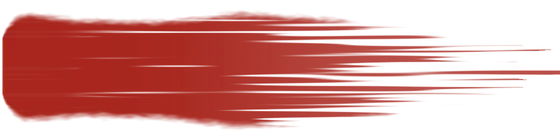
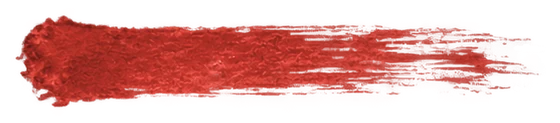
Commander UI: hand-painted brush art from one sprite sheet
The generated brush art is replaced with a painted sheet
(tools/ui/src/commander_ink_sheet.webp). tools/ui/commander_sheet.py cuts
it into assets/ui/ink/cmd_*.webp, drops stray specks, tones the reds to
vermilion and the enso to cream so it reads on black ink.

- The chakra pips cycle through the six painted drops (cmd_drops.webp).
- The 発動 seal is the painted hanko frame on a paper square, raised so
  it no longer covers the name.
- The banner ink runs off the screen edge so the text always sits on
  solid ink, with a soft shadow behind it.

The old procedural generator (tools/ui/commander_ink.py) is removed.

diff --git a/css/battle-commander.css b/css/battle-commander.css
@@ -2,7 +2,7 @@
    Sumi-e look in every UI style: a dry-brush ink swash instead of a box, the
    portrait in a brushed ensō, ink-drop chakra pips, a vermilion hanko seal and
    brush calligraphy (Yuji Boku, subset to the few kanji used here). Brush art:
-   assets/ui/ink/cmd_*.webp. */
+   assets/ui/ink/cmd_*.webp, cut from one painted sheet by tools/ui/commander_sheet.py. */
 @font-face {
   font-family: 'Yuji Boku Cmd';
   src: url('../assets/fonts/yuji-boku-commander.woff2') format('woff2');
@@ -27,12 +27,12 @@
   all: unset; box-sizing: border-box; cursor: pointer; -webkit-tap-highlight-color: transparent; touch-action: manipulation;
   position: relative; isolation: isolate; display: flex; align-items: center; gap: 2px;
   width: 238px; min-height: 112px; padding: 12px 26px 12px 18px;
-  color: var(--cmd-paper); font-family: var(--cmd-serif);
+  color: var(--cmd-paper); font-family: var(--cmd-serif); text-shadow: 0 1px 2px rgba(0, 0, 0, 0.9);
   user-select: none; -webkit-user-select: none;
 }
 /* the ink swash the banner is painted on */
 .cmd-ink {
-  position: absolute; inset: -6px -10px -8px -6px; z-index: -1; pointer-events: none;
+  position: absolute; inset: -8px -70px -10px -6px; z-index: -1; pointer-events: none; /* runs off the screen edge, so the solid ink sits under the text */
   background: url('../assets/ui/ink/cmd_swash.webp') left center / 100% 100% no-repeat;
   filter: drop-shadow(0 3px 6px rgba(0, 0, 0, 0.45));
 }
@@ -67,8 +67,15 @@
   -webkit-mask: url('../assets/ui/ink/cmd_dab.webp') center / contain no-repeat; mask: url('../assets/ui/ink/cmd_dab.webp') center / contain no-repeat;
   transition: background 0.25s, transform 0.25s;
 }
-.cmd-pips i:nth-child(3n) { transform: rotate(40deg) scale(0.92); }
-.cmd-pips i:nth-child(3n + 1) { transform: rotate(-25deg); }
+.cmd-pips i { -webkit-mask-image: url('../assets/ui/ink/cmd_drops.webp'); mask-image: url('../assets/ui/ink/cmd_drops.webp');
+  -webkit-mask-size: 600% 100%; mask-size: 600% 100%; }
+/* six painted drops in turn, so no two neighbours match */
+.cmd-pips i:nth-child(6n + 1) { -webkit-mask-position: 0% 0; mask-position: 0% 0; }
+.cmd-pips i:nth-child(6n + 2) { -webkit-mask-position: 20% 0; mask-position: 20% 0; }
+.cmd-pips i:nth-child(6n + 3) { -webkit-mask-position: 40% 0; mask-position: 40% 0; }
+.cmd-pips i:nth-child(6n + 4) { -webkit-mask-position: 60% 0; mask-position: 60% 0; }
+.cmd-pips i:nth-child(6n + 5) { -webkit-mask-position: 80% 0; mask-position: 80% 0; }
+.cmd-pips i:nth-child(6n) { -webkit-mask-position: 100% 0; mask-position: 100% 0; }
 .cmd-pips i.on { background: var(--cmd-vermilion-2); }
 .cmd-count { flex: 0 0 auto; font-family: var(--cmd-caps); font-size: 11px; font-weight: 600; color: var(--cmd-paper); }
 .cmd-count i { font-style: normal; font-size: 8.5px; color: var(--cmd-paper-dim); margin-left: 1px; }
@@ -81,11 +88,14 @@
 .cmd-go b { font-family: var(--cmd-brush); font-weight: 400; font-size: 17px; color: var(--cmd-paper); }
 .cmd-go span { font-family: var(--cmd-caps); font-size: 9px; font-weight: 600; letter-spacing: 0.34em; text-transform: uppercase; color: var(--cmd-paper); }
 .cmd-seal {
-  display: none; position: absolute; right: 18px; top: -6px; z-index: 2; width: 34px; height: 34px;
+  display: none; position: absolute; right: 2px; top: -26px; z-index: 2; width: 38px; height: 38px;
   align-items: center; justify-content: center; writing-mode: vertical-rl;
-  font-family: var(--cmd-brush); font-size: 13px; line-height: 1; color: #fbefe0;
-  background: var(--cmd-vermilion); border-radius: 3px 5px 4px 6px;
-  box-shadow: inset 0 0 0 2px rgba(251, 239, 224, 0.82), inset 0 0 0 3px var(--cmd-vermilion);
+  font-family: var(--cmd-brush); font-size: 13px; line-height: 1; color: var(--cmd-vermilion);
+  /* a painted hanko: the brushed frame (cmd_seal.webp) over a square of paper */
+  background:
+    url('../assets/ui/ink/cmd_seal.webp') center / 100% 100% no-repeat,
+    linear-gradient(var(--cmd-paper), var(--cmd-paper)) center / 78% 78% no-repeat;
+  filter: drop-shadow(0 2px 3px rgba(0, 0, 0, 0.5));
   transform: rotate(-7deg);
 }
 .cmd-banner.is-ready .cmd-gauge { display: none; }
@@ -194,7 +204,7 @@
 /* ── phone landscape ─────────────────────────────────────────── */
 html.is-mobile.is-landscape.is-compact .cmd-wrap { bottom: calc(max(8px, env(safe-area-inset-bottom, 0px)) + 2px); }
 html.is-mobile.is-landscape.is-compact .cmd-banner { width: 176px; min-height: 96px; padding: 9px 12px 9px 14px; }
-html.is-mobile.is-landscape.is-compact .cmd-ink { inset: -6px -6px -8px -6px; }
+html.is-mobile.is-landscape.is-compact .cmd-ink { inset: -8px -64px -10px -6px; }
 html.is-mobile.is-landscape.is-compact .cmd-aura { font-size: 9px; white-space: normal; line-height: 1.25; }
 html.is-mobile.is-landscape.is-compact .cmd-go { margin-right: -10px; }
 html.is-mobile.is-landscape.is-compact .cmd-brushk { font-size: 19px; }

diff --git a/sw.js b/sw.js
@@ -1,4 +1,4 @@
-const CACHE = 'blazing-shell-v143';
+const CACHE = 'blazing-shell-v144';
 const BASE = new URL('./', self.location.href).pathname;
 const SHELL = [
   'index.html',

diff --git a/tools/ui/commander_sheet.py b/tools/ui/commander_sheet.py
@@ -1,0 +1,117 @@
+#!/usr/bin/env python3
+"""Cut the commander UI's sumi brush art out of one painted sprite sheet.
+
+    python3 tools/ui/commander_sheet.py [tools/ui/src/commander_ink_sheet.webp]
+
+The sheet (transparent background) holds, top to bottom: a huge wide stroke
+(the cut-in band), a wide stroke (the banner), a vermilion stroke and an enso,
+a vermilion hanko seal and six ink drops. Each piece is cropped, cleaned of
+stray specks, toned (vermilion for the reds, cream for the enso so it reads on
+black ink) and written to assets/ui/ink/cmd_*.webp.
+"""
+import os
+import sys
+
+import numpy as np
+from PIL import Image
+from scipy import ndimage
+
+ROOT = os.path.join(os.path.dirname(os.path.abspath(__file__)), "..", "..")
+SRC = sys.argv[1] if len(sys.argv) > 1 else os.path.join(ROOT, "tools", "ui", "src", "commander_ink_sheet.webp")
+OUT = os.path.join(ROOT, "assets", "ui", "ink")
+VERMILION = np.array([186, 48, 38], np.float32)
+PAPER = np.array([239, 230, 207], np.float32)
+
+
+def pieces(a):
+    """Bounding boxes of the painted pieces, largest first."""
+    lab, n = ndimage.label(ndimage.binary_dilation(a[..., 3] > 24, iterations=10))
+    boxes = []
+    for i, sl in enumerate(ndimage.find_objects(lab)):
+        area = int(((lab[sl] == i + 1) & (a[sl][..., 3] > 24)).sum())
+        boxes.append((area, sl))
+    return [sl for _, sl in sorted(boxes, key=lambda b: -b[0])]
+
+
+def clean(c, keep=0.01, pad=8):
+    """Drop specks (components under `keep` of the largest), then pad."""
+    m = c[..., 3] > 24
+    lab, n = ndimage.label(ndimage.binary_dilation(m, iterations=2))
+    if n > 1:
+        sizes = ndimage.sum(m, lab, range(1, n + 1))
+        small = np.isin(lab, [i + 1 for i, s in enumerate(sizes) if s < keep * sizes.max()])
+        c = c.copy()
+        c[small, 3] = 0
+    out = np.zeros((c.shape[0] + 2 * pad, c.shape[1] + 2 * pad, 4), np.uint8)
+    out[pad:-pad, pad:-pad] = c
+    return out
+
+
+def lum(c):
+    return c[..., :3].astype(np.float32).mean(axis=2) / 255.0
+
+
+def tint(c, rgb, fade=0.0):
+    """Recolour to `rgb`, keeping the alpha; `fade` thins the paler, dry parts."""
+    o = c.copy().astype(np.float32)
+    o[..., :3] = rgb
+    o[..., 3] *= 1 - fade * lum(c)
+    return o.clip(0, 255).astype(np.uint8)
+
+
+def vermilion(c):
+    """Bright red -> vermilion, keeping the paint's light and dark."""
+    o = c.copy().astype(np.float32)
+    shade = np.clip(o[..., 0] / 225.0, 0.55, 1.15)[..., None]
+    o[..., :3] = VERMILION * shade + (o[..., 1:2] + o[..., 2:3]) * 0.25  # pale flecks stay pale
+    return o.clip(0, 255).astype(np.uint8)
+
+
+def save(arr, name, width=None, height=None, q=88):
+    im = Image.fromarray(arr, "RGBA")
+    if width:
+        im = im.resize((width, max(1, round(im.height * width / im.width))), Image.LANCZOS)
+    elif height:
+        im = im.resize((max(1, round(im.width * height / im.height)), height), Image.LANCZOS)
+    im.save(os.path.join(OUT, name), "WEBP", quality=q, method=6, exact=True)
+    print(name, im.size)
+
+
+def main():
+    a = np.asarray(Image.open(SRC).convert("RGBA"))
+    big, small = pieces(a)[:5], pieces(a)[5:11]
+    # the five large pieces by position: top row, second row, then left/right halves
+    big = sorted(big, key=lambda sl: (sl[0].start, sl[1].start))
+    band, banner = big[0], big[1]
+    rest = sorted(big[2:], key=lambda sl: (sl[0].start, sl[1].start))
+    red_or_enso = {}
+    for sl in rest:
+        c = a[sl]
+        redness = (c[..., 0].astype(int) - c[..., 1]).clip(0)[c[..., 3] > 24].mean()
+        squareish = abs((sl[0].stop - sl[0].start) - (sl[1].stop - sl[1].start)) < 60
+        if redness > 60 and not squareish: red_or_enso["red"] = sl
+        elif redness > 60: red_or_enso["seal"] = sl
+        else: red_or_enso["enso"] = sl
+
+    save(clean(a[band]), "cmd_band.webp", width=1400, q=85)
+    save(clean(a[banner]), "cmd_swash.webp", width=720, q=85)
+    save(vermilion(clean(a[red_or_enso["red"]], keep=0.02)), "cmd_swash_red.webp", width=560)
+    save(vermilion(clean(a[red_or_enso["seal"]], keep=0.05)), "cmd_seal.webp", width=160)
+    save(tint(clean(a[red_or_enso["enso"]]), PAPER, fade=0.45), "cmd_enso.webp", width=220)
+
+    # six drops -> one strip of 64px cells (a CSS mask, so white), and one as the dab
+    drops = sorted(small, key=lambda sl: (sl[0].start // 80, sl[1].start))
+    cell = 64
+    strip = Image.new("RGBA", (cell * len(drops), cell), (0, 0, 0, 0))
+    for k, sl in enumerate(drops):
+        d = Image.fromarray(tint(clean(a[sl], pad=4), (255, 255, 255), fade=0.5), "RGBA")
+        d.thumbnail((cell - 4, cell - 4), Image.LANCZOS)
+        strip.alpha_composite(d, (k * cell + (cell - d.width) // 2, (cell - d.height) // 2))
+        if k == 0:
+            d.save(os.path.join(OUT, "cmd_dab.webp"), "WEBP", quality=90, method=6, exact=True)
+    strip.save(os.path.join(OUT, "cmd_drops.webp"), "WEBP", quality=90, method=6, exact=True)
+    print("cmd_drops.webp", strip.size)
+
+
+if __name__ == "__main__":
+    main()
